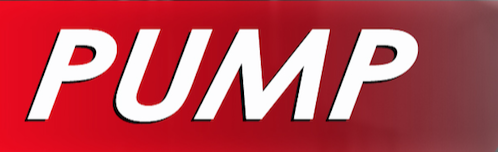
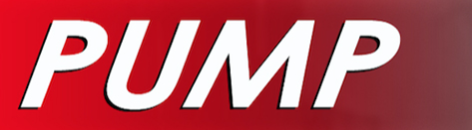
psuh

diff --git a/public/index.html b/public/index.html
@@ -230,8 +230,8 @@
 																
 															</div>
 															<div class="tp-caption theairslicetitle sft tp-resizeme"
-																 data-x="20"
-																 data-y="400"
+																 data-x="0"
+																 data-y="0"
 																 data-speed="300"
 																 data-start="800"
 																 data-easing="Power3.easeInOut"
@@ -240,7 +240,7 @@
 																 data-elementdelay="0.1"
 																 data-endelementdelay="0.1"
 																 data-endspeed="300">
-																 <h2><b><i>ENDURANCE</i></b></h2>
+																 <img src="images/endurance.jpg" width="450px" height="250px">
 															</div>
 															
 														</li>
@@ -263,7 +263,7 @@
 															</div>
 															<div class="tp-caption theairslicetitle sfb tp-resizeme"
 																 data-x="600"
-																 data-y="100"
+																 data-y="0"
 																 data-speed="300"
 																 data-start="800"
 																 data-easing="Power3.easeInOut"
@@ -272,7 +272,7 @@
 																 data-elementdelay="0.1"
 																 data-endelementdelay="0.1"
 																 data-endspeed="300">
-																 <h2><b><i>PUMP</i></b></h2>
+																<img src="images/pump.png" width="250px" height="150px">
 															</div>
 															<div class="tp-caption sft tp-resizeme"
 																 data-x="316"
